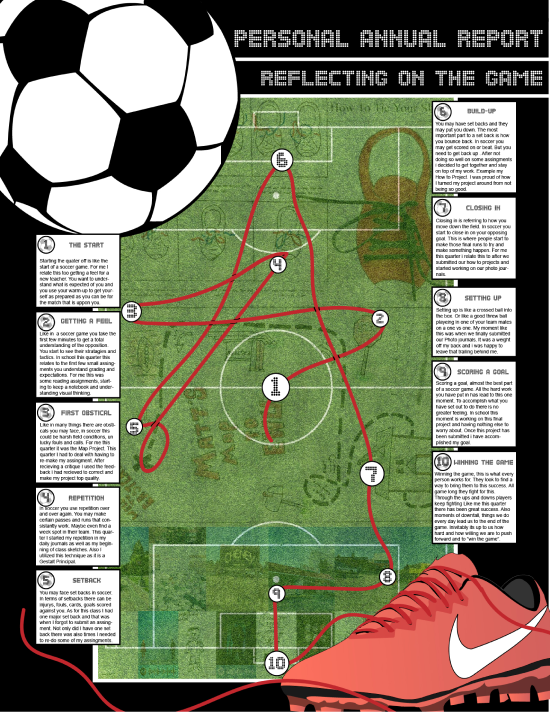
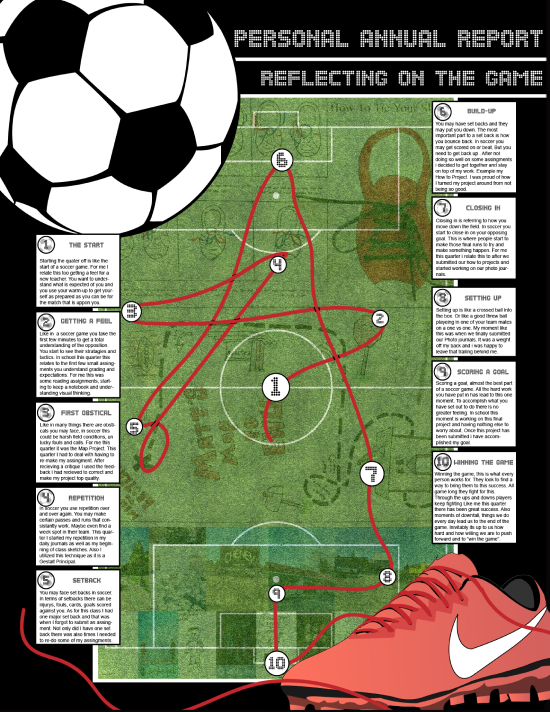
Edit Portfolio
padding
images fixed

Changed region(s): [[0.0, 0.9888, 1.0, 1.0], [0.9891, 0.0, 1.0, 0.8652]]

diff --git a/css/styles.css b/css/styles.css
@@ -101,7 +101,7 @@ ul {
   list-style: none;
   margin: auto;
   margin-top: 30px;
-  padding: 15px;
+  padding: 20px;
   display: block;
   max-width: 800px;
   text-align: center;
